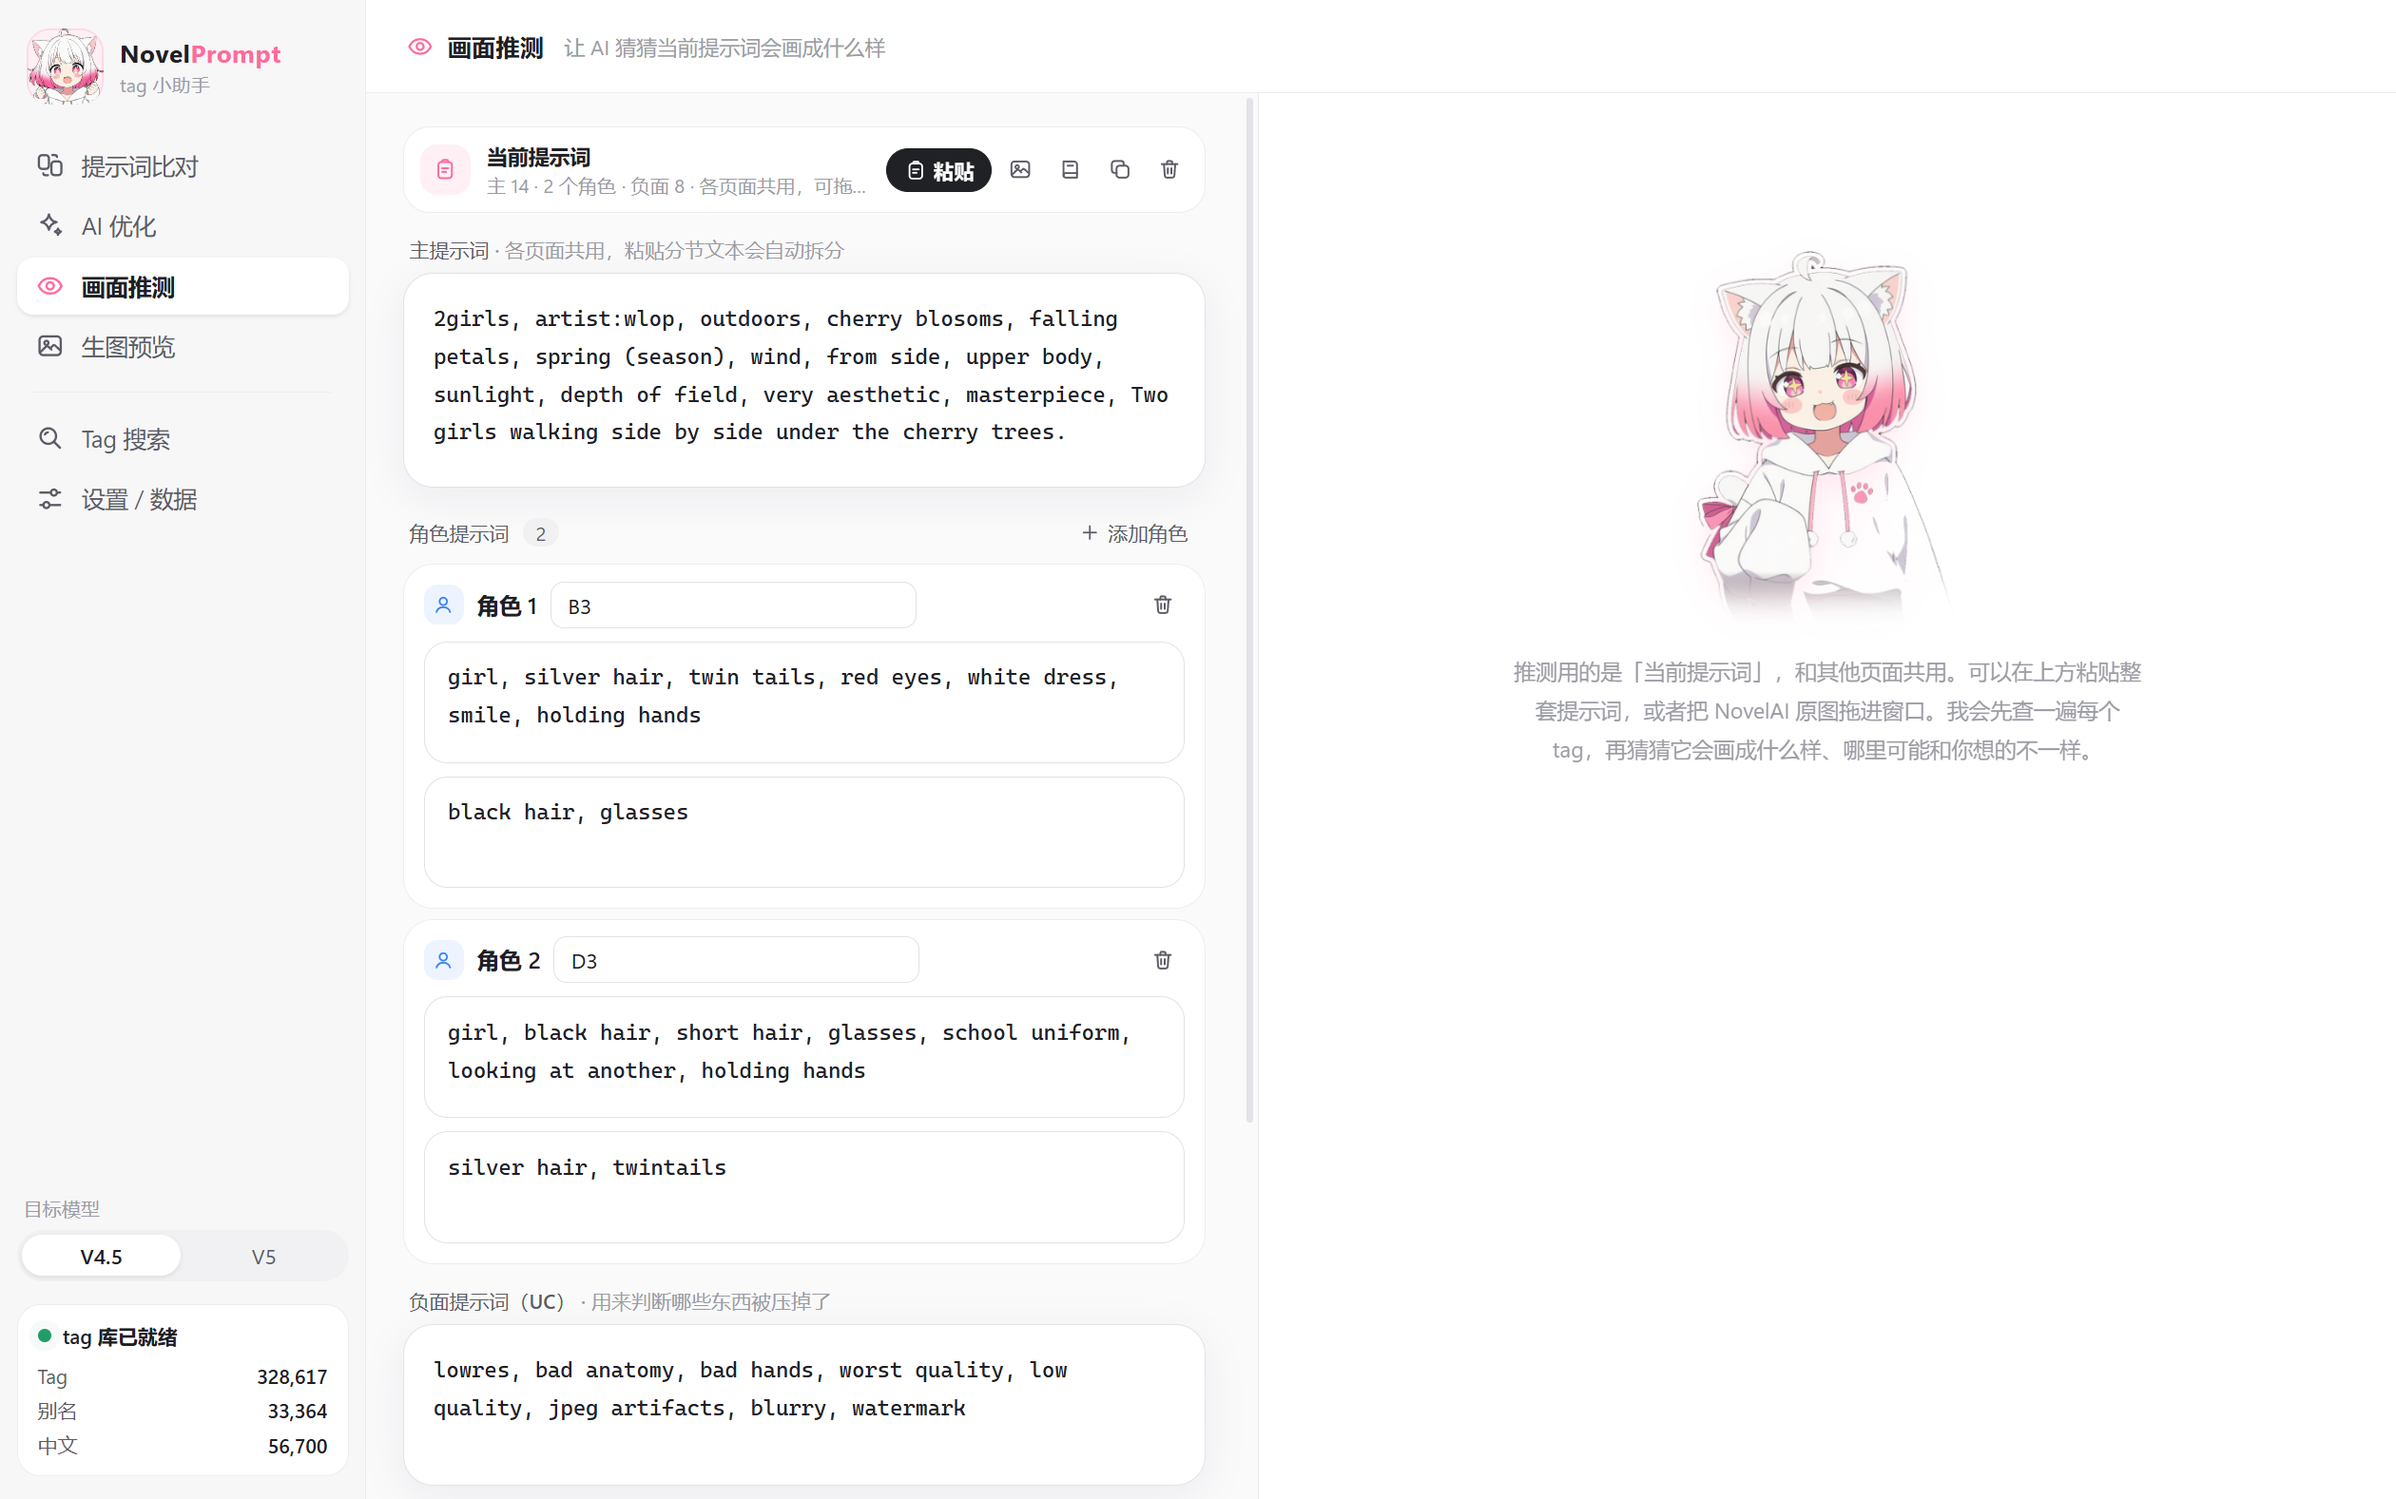
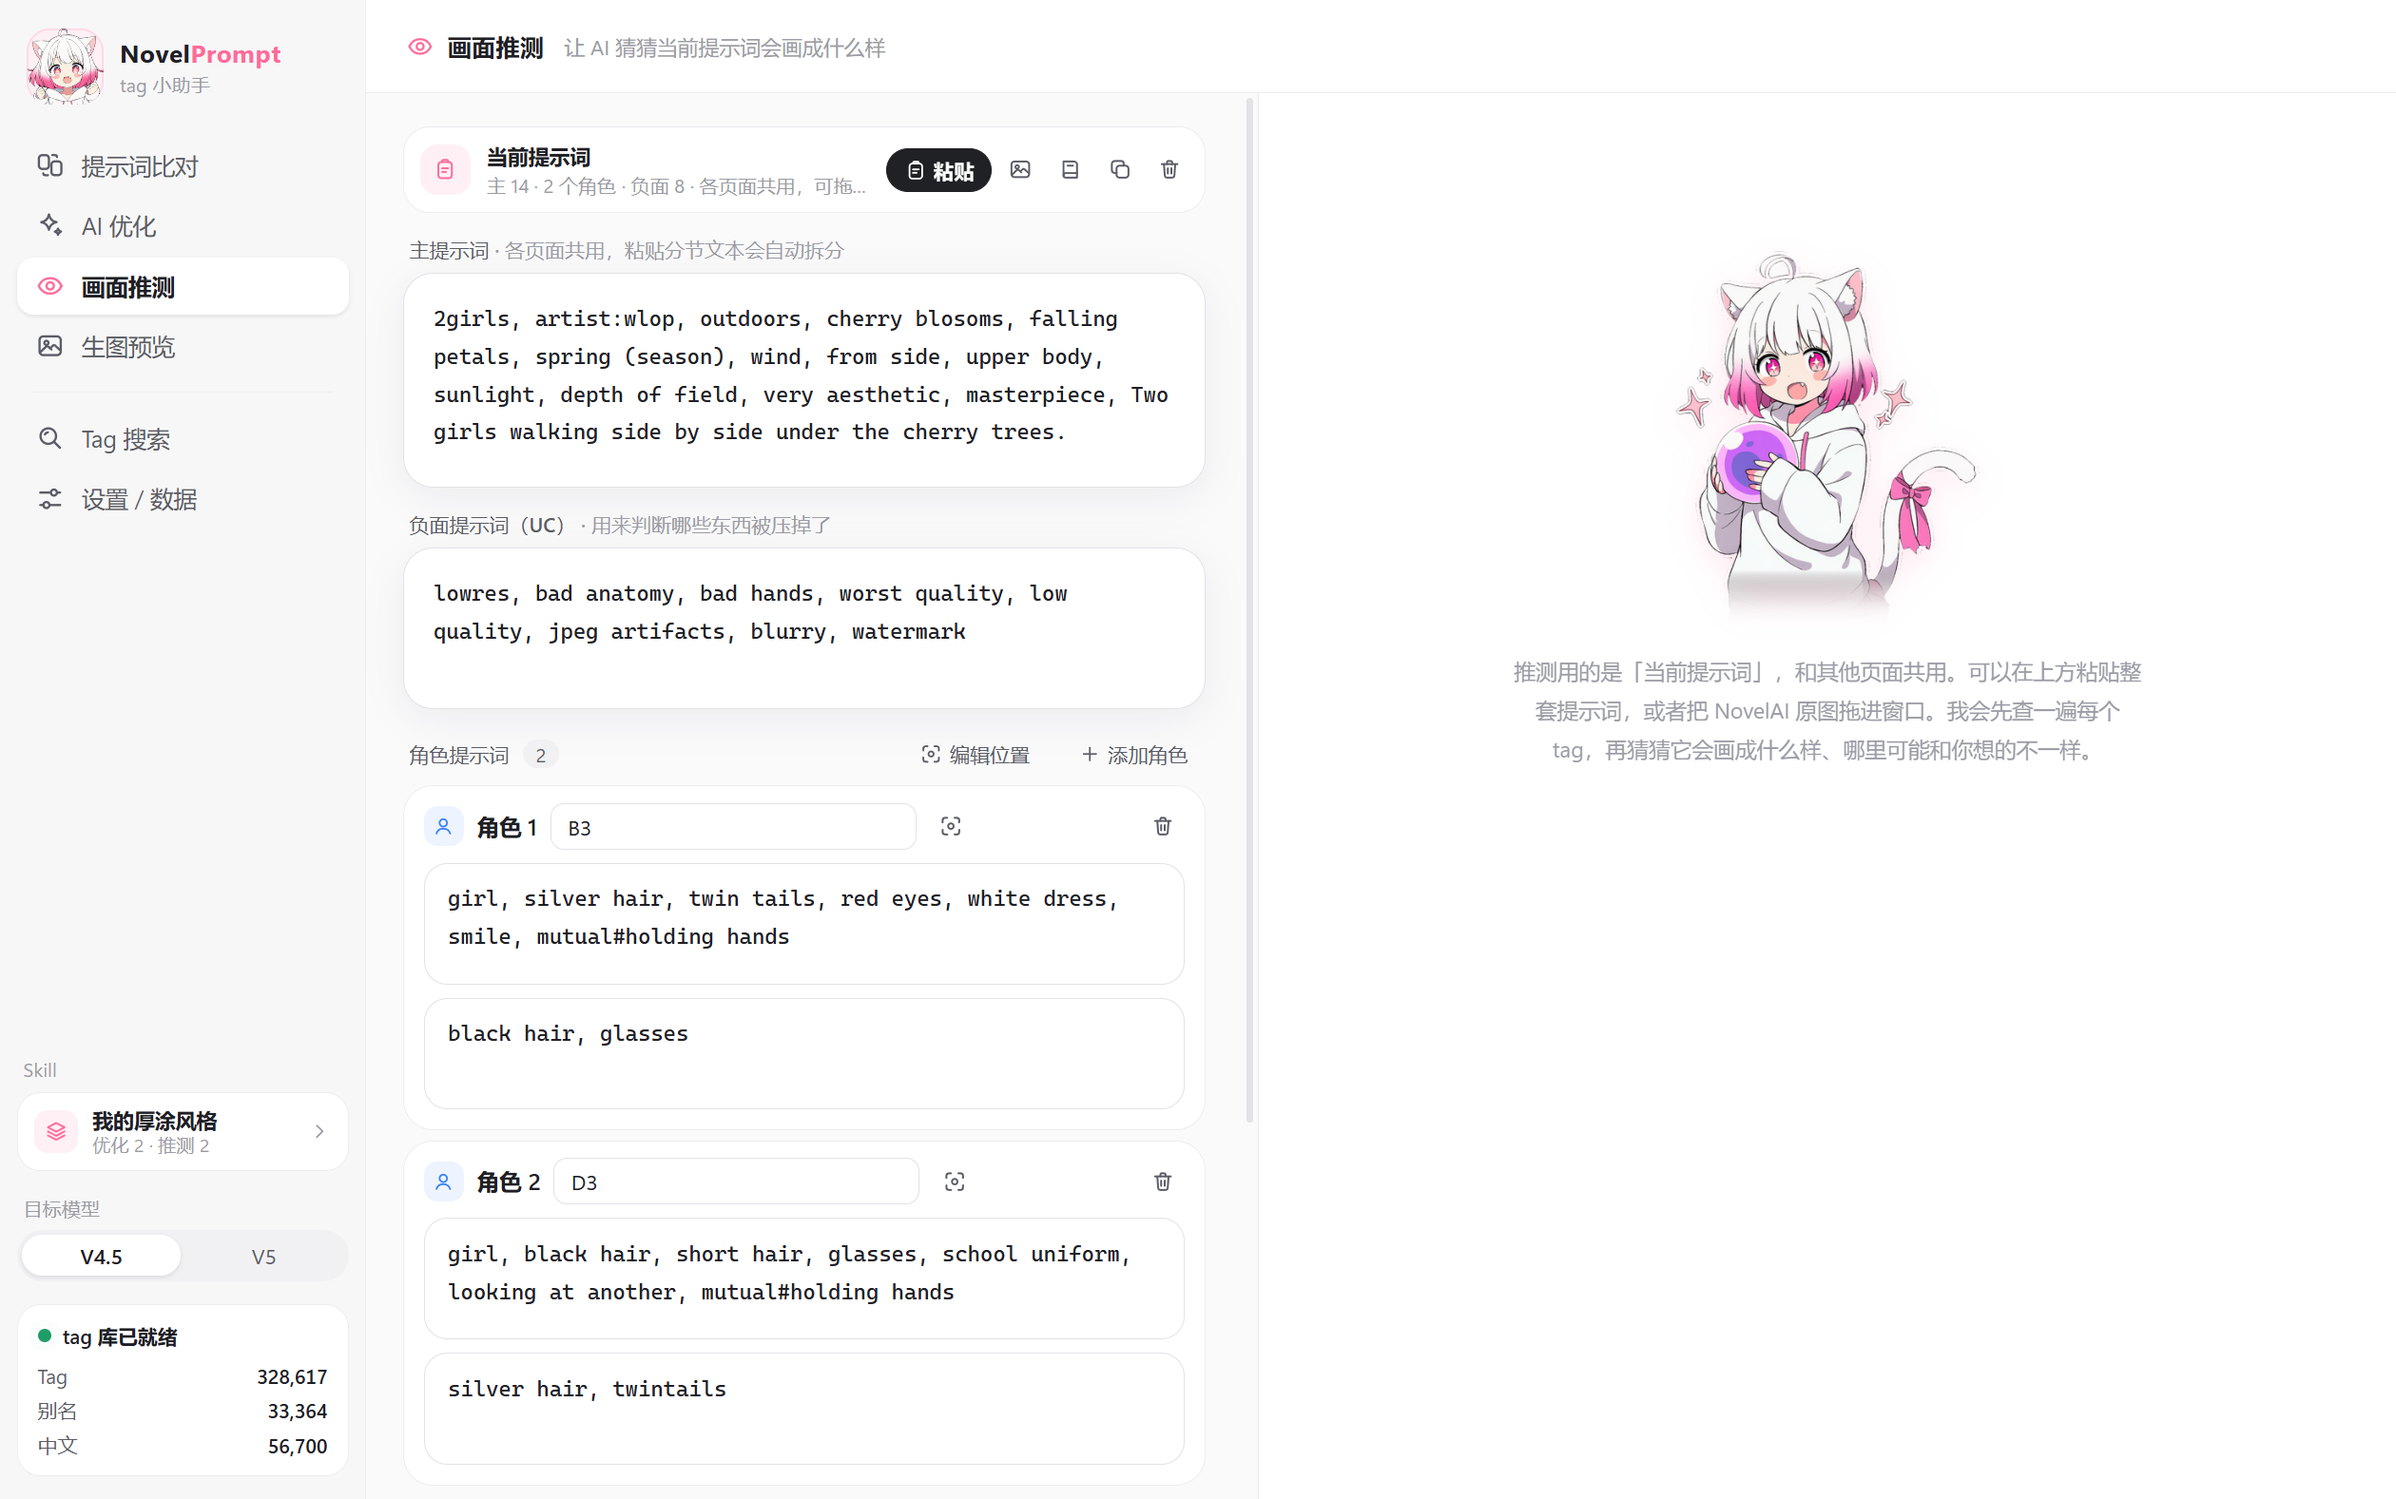
feat(skills): 完善 Skill 管理文档并新增位置编辑画布截图

diff --git a/src/main/screenshots.ts b/src/main/screenshots.ts
@@ -15,12 +15,28 @@ const SAMPLE = {
     '2girls, artist:wlop, outdoors, cherry blosoms, falling petals, spring (season), wind, from side, upper body, sunlight, depth of field, very aesthetic, masterpiece, Two girls walking side by side under the cherry trees.',
   negative: 'lowres, bad anatomy, bad hands, worst quality, low quality, jpeg artifacts, blurry, watermark',
   characters: [
-    { prompt: 'girl, silver hair, twin tails, red eyes, white dress, smile, holding hands', negative: 'black hair, glasses', position: 'B3' },
-    { prompt: 'girl, black hair, short hair, glasses, school uniform, looking at another, holding hands', negative: 'silver hair, twintails', position: 'D3' }
+    { prompt: 'girl, silver hair, twin tails, red eyes, white dress, smile, mutual#holding hands', negative: 'black hair, glasses', position: 'B3' },
+    { prompt: 'girl, black hair, short hair, glasses, school uniform, looking at another, mutual#holding hands', negative: 'silver hair, twintails', position: 'D3' }
   ],
   params: { width: 832, height: 1216, qualityTags: true, ucPreset: 'heavy' },
   history: []
 }
+
+/** 截图用的示例用户 Skill，展示多份 Skill 叠加与优先级 */
+const SAMPLE_SKILL = `---
+name: 我的厚涂风格
+description: 固定画师组合与厚涂质感，负面不放 sketch
+scope: all
+model: all
+---
+
+# 我的厚涂风格
+
+- 画师固定使用 artist:wlop 与 artist:ask (askzy)，权重 0.8
+- 质感偏厚涂：优先 thick painting、realistic lighting 一类 tag
+- 负面提示词里不要放 sketch
+- 【V5】可以加一句英文短句描述整体光线
+`
 
 export const SHOT_DIR = process.argv.find((a) => a.startsWith('--screenshots='))?.slice('--screenshots='.length)
 const WITH_AI = process.argv.includes('--screenshots-ai')
@@ -36,12 +52,21 @@ export function prepareScreenshotProfile(): void {
       copyFileSync(join(realData, f), join(tmp, 'data', f))
     }
   }
-  const settings: Record<string, unknown> = {}
+  const settings: Record<string, unknown> = {
+    skillsMigrated: true,
+    skills: [
+      { id: 'my-style', enabled: true },
+      { id: 'builtin:prompt', enabled: true },
+      { id: 'builtin:preview', enabled: true }
+    ]
+  }
   if (WITH_AI && existsSync(join(realData, 'settings.json'))) {
     const real = JSON.parse(readFileSync(join(realData, 'settings.json'), 'utf8'))
     for (const k of ['apiKey', 'baseUrl', 'model', 'reasoningEffort', 'naiVersion']) if (k in real) settings[k] = real[k]
   }
   writeFileSync(join(tmp, 'data', 'settings.json'), JSON.stringify(settings), 'utf8')
+  mkdirSync(join(tmp, 'skills', 'user'), { recursive: true })
+  writeFileSync(join(tmp, 'skills', 'user', 'my-style.md'), SAMPLE_SKILL, 'utf8')
   app.setPath('userData', tmp)
 }
 
@@ -50,6 +75,10 @@ const sleep = (ms: number) => new Promise((r) => setTimeout(r, ms))
 export async function takeScreenshots(win: BrowserWindow): Promise<void> {
   const out = resolve(SHOT_DIR!)
   mkdirSync(out, { recursive: true })
+  // 截图期间窗口可能在后台：关闭后台节流，保证页面持续绘制
+  win.webContents.setBackgroundThrottling(false)
+  win.show()
+  win.focus()
   const js = <T = unknown>(code: string) => win.webContents.executeJavaScript(code, true) as Promise<T>
   const waitFor = async (code: string, timeout: number) => {
     const end = Date.now() + timeout
@@ -61,9 +90,21 @@ export async function takeScreenshots(win: BrowserWindow): Promise<void> {
   }
   const shot = async (name: string) => {
     await sleep(900) // 等入场动画结束
-    const img = await win.webContents.capturePage()
-    writeFileSync(join(out, `${name}.png`), img.toPNG())
-    console.log(`[screenshots] ${name}.png`)
+    for (let i = 0; i < 5; i++) {
+      try {
+        // 窗口被遮挡或失焦时 capturePage 可能报 UnknownVizError：保持渲染并重试
+        if (!win.isVisible()) win.show()
+        const img = await win.webContents.capturePage(undefined, { stayHidden: true, stayAwake: true })
+        if (img.isEmpty()) throw new Error('empty image')
+        writeFileSync(join(out, `${name}.png`), img.toPNG())
+        console.log(`[screenshots] ${name}.png`)
+        return
+      } catch (e) {
+        console.log(`[screenshots] ${name} 第 ${i + 1} 次失败：${e instanceof Error ? e.message : e}`)
+        win.webContents.invalidate()
+        await sleep(800)
+      }
+    }
   }
   const openTab = (label: string) =>
     js(`[...document.querySelectorAll('.nav-item')].find((b) => b.textContent.includes(${JSON.stringify(label)}))?.click()`)
@@ -94,13 +135,30 @@ export async function takeScreenshots(win: BrowserWindow): Promise<void> {
   await openTab('生图预览')
   await shot('generate')
 
+  // 角色位置编辑器
+  await js(`document.querySelector('button[title="在画布上拖动各角色的位置"]')?.click()`)
+  await waitFor(`!!document.querySelector('.pos-dialog')`, 5000)
+  await shot('positions')
+  await js(`window.dispatchEvent(new KeyboardEvent('keydown', { key: 'Escape' }))`)
+  await sleep(400)
+
   await openTab('Tag 搜索')
   await js(`(() => { const i = document.querySelector('.search-input'); i.value = '双马尾'; i.dispatchEvent(new Event('input')) })()`)
   await sleep(600)
   await shot('search')
 
+  // 侧栏 Skill 启用与优先级
+  await js(`document.querySelector('.skill-trigger')?.click()`)
+  await waitFor(`!!document.querySelector('.sp-pop .sp-item')`, 5000)
+  await shot('skills')
+  await js(`window.dispatchEvent(new KeyboardEvent('keydown', { key: 'Escape' }))`)
+  await sleep(400)
+
   await openTab('设置')
   await shot('settings')
+
+  await js(`document.getElementById('skill-manager')?.scrollIntoView({ block: 'start' })`)
+  await shot('skill-manager')
 
   app.quit()
 }

diff --git a/src/renderer/src/components/PositionEditor.vue b/src/renderer/src/components/PositionEditor.vue
@@ -21,13 +21,15 @@ const isV5 = computed(() => state.settings?.naiVersion === 'v5')
 const chars = computed(() => state.characters)
 const selected = ref(Math.min(props.start ?? 0, Math.max(0, state.characters.length - 1)))
 
-/* ---------- 画布尺寸：按当前画幅等比缩放 ---------- */
+/* ---------- 画布尺寸：按当前画幅等比缩放，并保证整个弹窗能放进窗口 ---------- */
 const MAX_W = 520
-const MAX_H = 520
+const viewH = ref(window.innerHeight)
+const onResize = () => (viewH.value = window.innerHeight)
 const box = computed(() => {
   const w = state.params.width || 832
   const h = state.params.height || 1216
-  const s = Math.min(MAX_W / w, MAX_H / h)
+  const maxH = Math.max(260, Math.min(520, viewH.value - 230))
+  const s = Math.min(MAX_W / w, maxH / h)
   return { w: Math.round(w * s), h: Math.round(h * s) }
 })
 
@@ -193,8 +195,12 @@ watch(
 onMounted(() => {
   pushHistory('编辑角色位置之前')
   window.addEventListener('keydown', onKey)
+  window.addEventListener('resize', onResize)
 })
-onBeforeUnmount(() => window.removeEventListener('keydown', onKey))
+onBeforeUnmount(() => {
+  window.removeEventListener('keydown', onKey)
+  window.removeEventListener('resize', onResize)
+})
 </script>
 
 <template>

diff --git a/src/renderer/src/views/AiView.vue b/src/renderer/src/views/AiView.vue
@@ -210,7 +210,7 @@ const fullText = (r: AiOptimizeResult) => sectionText({ base: r.positive, negati
           用中文把画面讲清楚就好。我会数清画面里有几个人，把共享的画风、构图、背景放进主提示词，每个人的外貌、服装、动作拆成单独的角色提示词并排好位置，再给容易串色的角色加上角色负面，最后配一套负面提示词。
         </p>
         <p v-else>
-          我会先把画面拆成一个个概念，去本地 Danbooru 库里找真实存在的 tag，按 Skill 文档的规则排好顺序，最后再检查一遍，不存在的 tag 会自动换掉。结果要点「采用」才会写进当前提示词。
+          我会先把画面拆成一个个概念，去本地 Danbooru 库里找真实存在的 tag，按侧栏里启用的 Skill 排好顺序，最后再检查一遍，不存在的 tag 会自动换掉。结果要点「采用」才会写进当前提示词。
         </p>
       </div>
       <template v-else>

diff --git a/src/main/index.ts b/src/main/index.ts
@@ -332,7 +332,12 @@ if (MCP_MODE) {
     createWindow()
     if (SHOT_DIR && win) {
       const w = win
-      w.webContents.once('did-finish-load', () => void takeScreenshots(w))
+      w.webContents.once('did-finish-load', () =>
+        takeScreenshots(w).catch((e) => {
+          console.error('[screenshots] 失败：', e)
+          app.quit()
+        })
+      )
     }
     app.on('activate', () => {
       if (BrowserWindow.getAllWindows().length === 0) createWindow()

diff --git a/docs/agent-install.md b/docs/agent-install.md
@@ -82,7 +82,7 @@ Claude Code（`~/.claude.json` 的 `mcpServers`）、Cursor 等 JSON 格式：
 ## 4. 生效与验证
 
 1. 告诉用户**完全重启 agent**（MCP 配置只在启动时加载）。
-2. 重启后调用 `prompt_guide`，能返回使用说明和提示词规范即接入成功。之后写 NovelAI 提示词时按它执行。
+2. 重启后调用 `prompt_guide`，能返回使用说明和用户启用的提示词 Skill 即接入成功。之后写 NovelAI 提示词时按它执行；用户要求调整规则时，用 Skill 管理工具（`list_skills` / `create_skill` / `update_skill` / `set_skill_config` 等）修改。
 3. 失败时依次检查：配置里的路径是否存在；是否用了便携版；用户是否移动过安装目录（移动后重新执行第 3 步）。
 
 ## 5. 可选：告诉用户还可以配置什么
